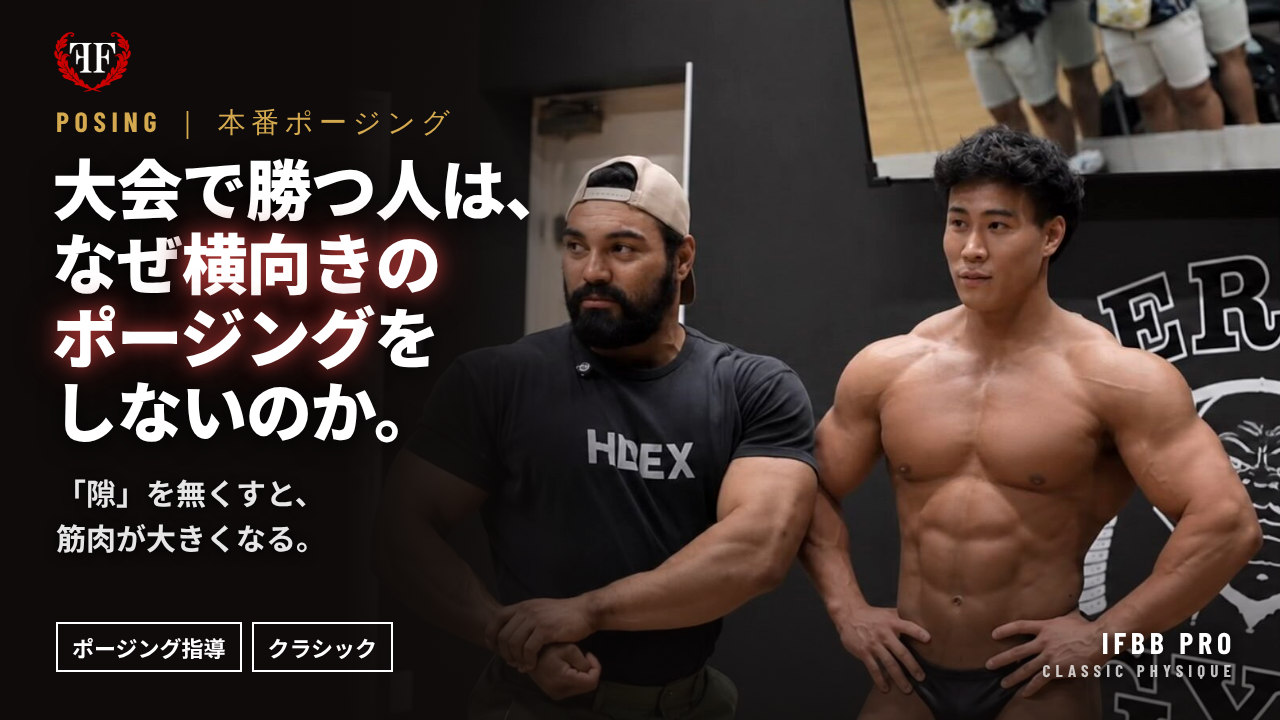
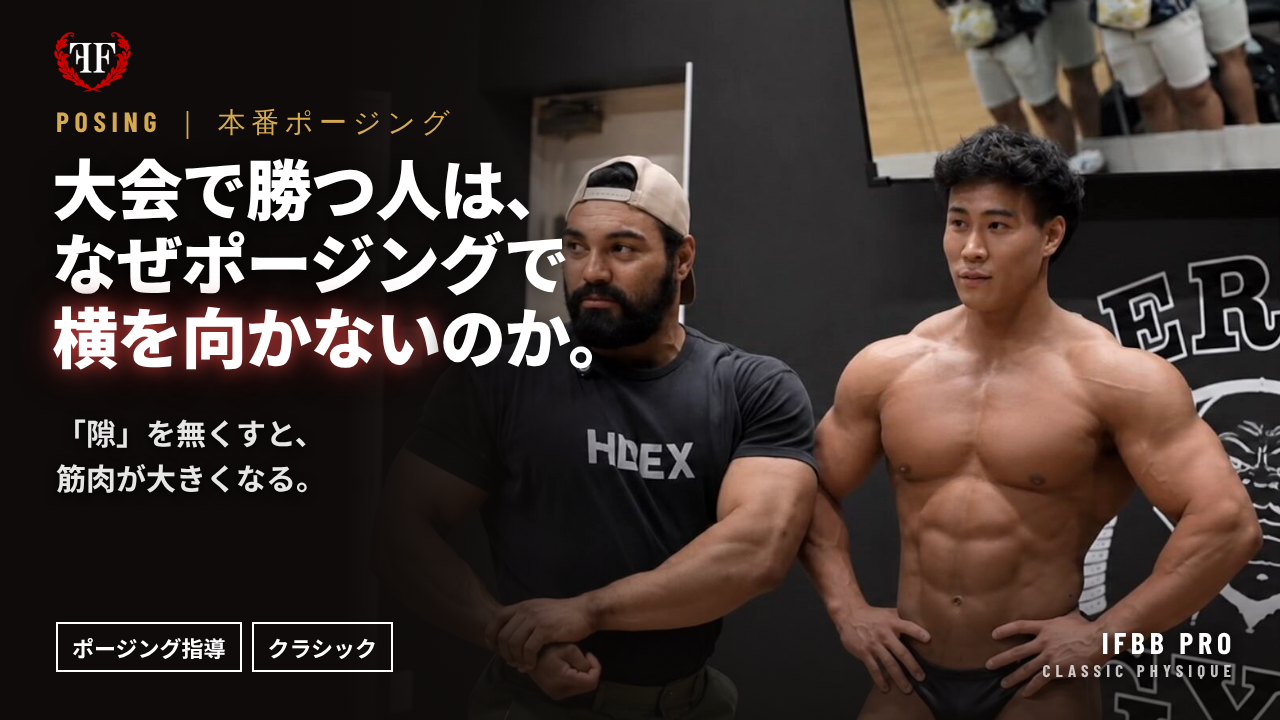
Posing thumbnail: headline wording fix (#157)
* Add 7-slide Instagram carousel: overtraining recovery (brand template)

Claude-Session: https://claude.ai/code/session_01HRty6kL8VRnpLHHHzSF3iS

* Add free-lesson page (/lesson) with J3-style unlock flow, ad covers and video script

- lesson.html: locked video + name/email form (uniao-waitlist, source lesson-joints-*),
  unlocks on the page after submit, remembers on the device, Lead pixel on unlock,
  then THE NEXT QUESTION block and the UNIÃO card linking to /uniao
- netlify.toml: /lesson -> lesson.html
- assets/ads/lesson-joints: 4:5, 9:16 covers, og image, template, 6-minute script

Claude-Session: https://claude.ai/code/session_01HRty6kL8VRnpLHHHzSF3iS

* Lesson page: match the 13-minute bent-over row video (lead, bullets, title, cover)

Claude-Session: https://claude.ai/code/session_01HRty6kL8VRnpLHHHzSF3iS

* Add photo variant of the free-lesson ad cover

Claude-Session: https://claude.ai/code/session_01HRty6kL8VRnpLHHHzSF3iS

* Add common structure for exercise deep-dive videos

Claude-Session: https://claude.ai/code/session_01HRty6kL8VRnpLHHHzSF3iS

* Video structure: adopt the 10-item version with 5-phase rep breakdown

Claude-Session: https://claude.ai/code/session_01HRty6kL8VRnpLHHHzSF3iS

* Lesson page: replace 'free lesson' wording with problem-solving copy (原因を特定する)

Claude-Session: https://claude.ai/code/session_01HRty6kL8VRnpLHHHzSF3iS

* Lesson page: CTA button → 筋肉に効かせる方法を見る

Claude-Session: https://claude.ai/code/session_01HRty6kL8VRnpLHHHzSF3iS
[…]

Changed region(s): [[0.0312, 0.3056, 0.4688, 0.7028], [0.0312, 0.7333, 0.25, 0.7639]]

diff --git a/assets/yt/posing-thumb-template.html b/assets/yt/posing-thumb-template.html
@@ -10,7 +10,7 @@ body{font-family:"NS",sans-serif;color:#fff;position:relative}
 .lbl{position:absolute;left:56px;top:104px;font-family:"BC",sans-serif;font-size:28px;letter-spacing:.2em;color:#D4A94F}
 .h{position:absolute;left:52px;top:150px;font-size:66px;font-weight:900;line-height:1.12;letter-spacing:-.02em;text-shadow:0 4px 24px rgba(0,0,0,.8)}
 .h em{font-style:normal;color:#fff;text-shadow:0 0 18px rgba(185,58,56,.95),0 0 40px rgba(185,58,56,.6),0 4px 24px rgba(0,0,0,.8)}
-.sub{position:absolute;left:56px;top:470px;font-size:30px;font-weight:700;color:rgba(255,255,255,.9);line-height:1.5;text-shadow:0 2px 12px rgba(0,0,0,.9)}
+.sub{position:absolute;left:56px;top:410px;font-size:30px;font-weight:700;color:rgba(255,255,255,.9);line-height:1.5;text-shadow:0 2px 12px rgba(0,0,0,.9)}
 .tag{position:absolute;left:56px;bottom:48px;display:flex;gap:10px}
 .tag span{font-size:22px;font-weight:700;border:2px solid #fff;padding:7px 14px}
 .part{position:absolute;right:44px;bottom:118px;background:#9C302E;font-family:"BC",sans-serif;font-size:26px;letter-spacing:.1em;padding:8px 16px;line-height:1;display:flex;align-items:baseline;gap:8px}
@@ -21,7 +21,7 @@ body{font-family:"NS",sans-serif;color:#fff;position:relative}
 <div class="bg"></div><div class="fade"></div>
 <img class="logo" src="logo.png" alt="">
 <p class="lbl">POSING ｜ 本番ポージング</p>
-<p class="h">大会で勝つ人は、<br>なぜ<em>横向きの</em><br><em>ポージング</em>を<br>しないのか。</p><p class="sub">「隙」を無くすと、<br>筋肉が大きくなる。</p>
+<p class="h">大会で勝つ人は、<br>なぜポージングで<br><em>横を向かない</em>のか。</p><p class="sub">「隙」を無くすと、<br>筋肉が大きくなる。</p>
 <div class="tag"><span>ポージング指導</span><span>クラシック</span></div>
 <p class="pro">IFBB PRO<small>CLASSIC PHYSIQUE</small></p>
 </body></html>
